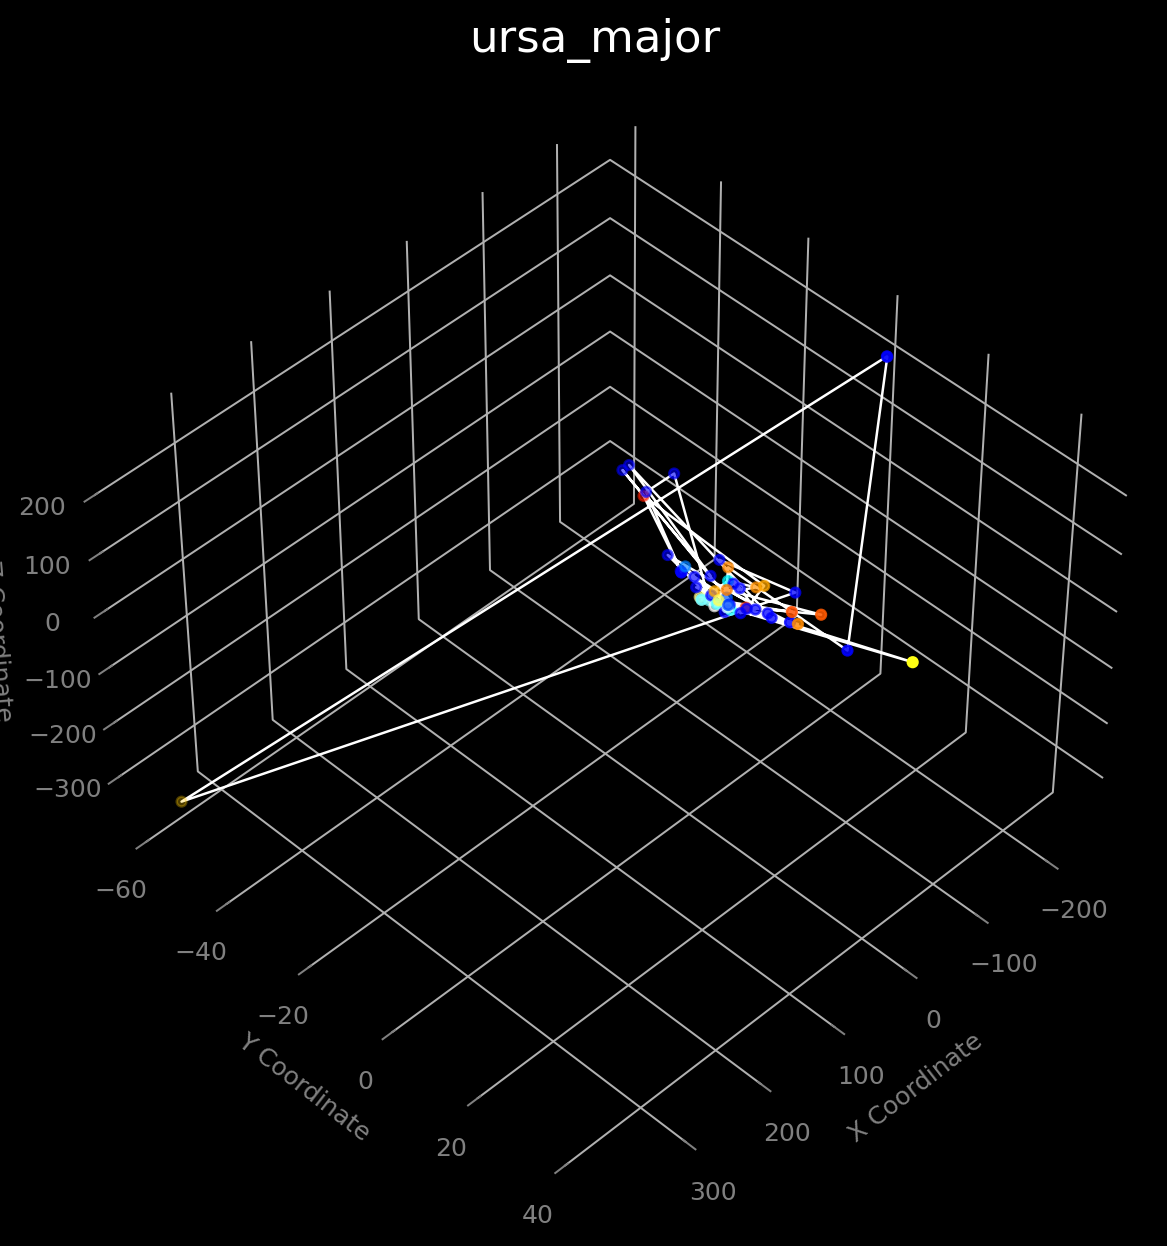
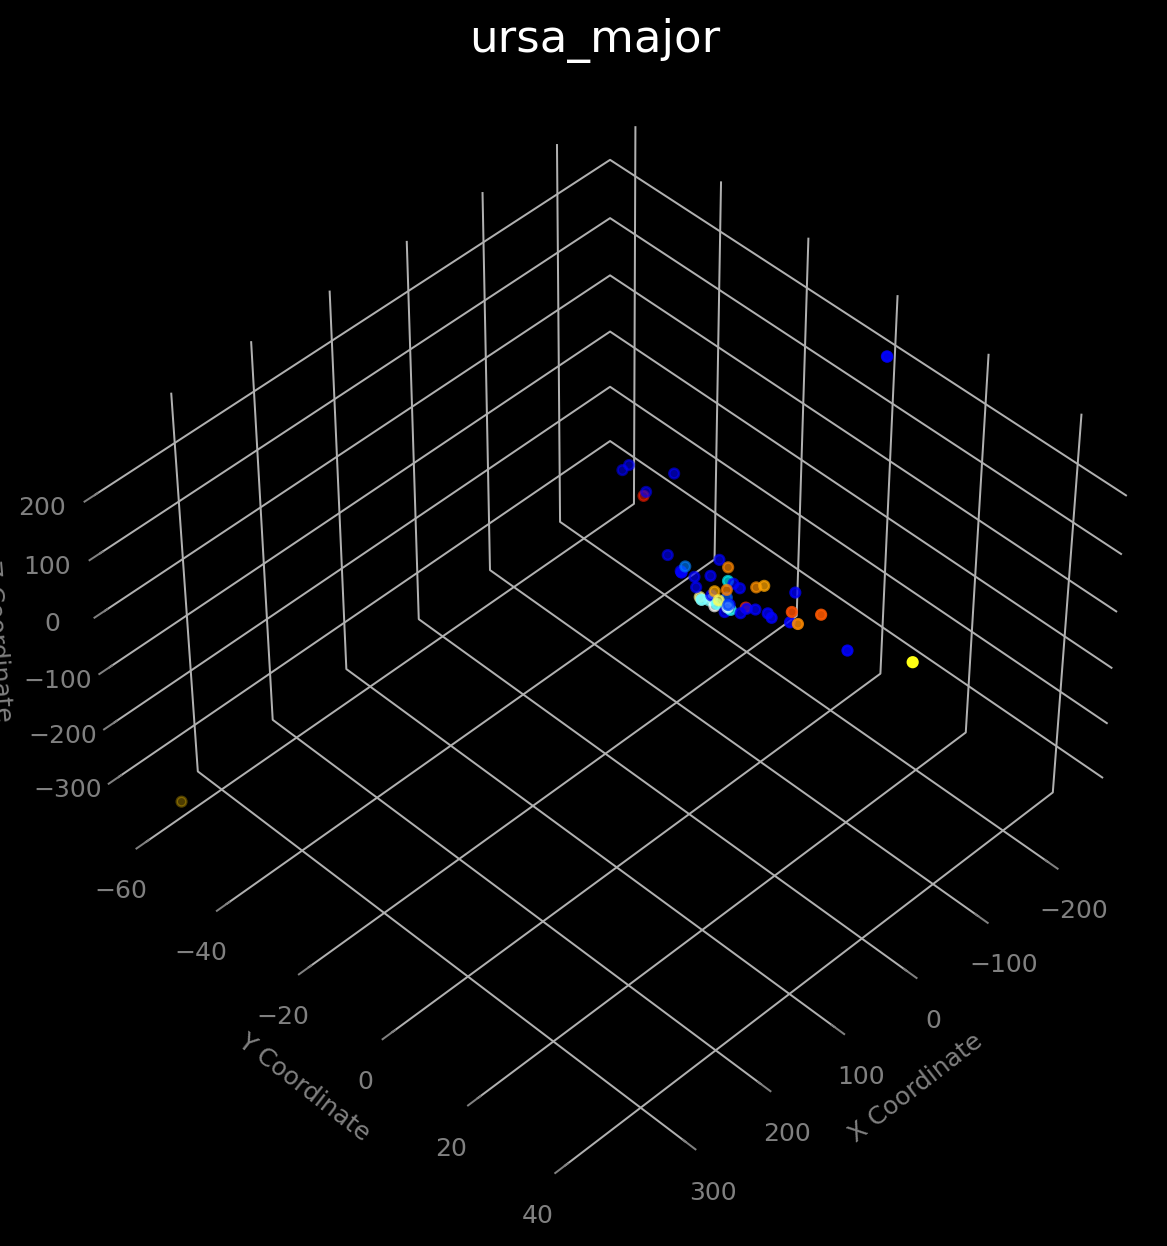
ursa major gif and plot line optional feature

diff --git a/src/plotter.py b/src/plotter.py
@@ -23,7 +23,7 @@ def draw_line_between_stars(ax, star_names, star_coords, star1, star2, color='wh
                 [star_coords['z'][index_star1], star_coords['z'][index_star2]],
                 color=color, linewidth=linewidth)
 
-def plot_3d_scatter(x, y, z, rgb, star_names=None, title=None, view=None):
+def plot_3d_scatter(x, y, z, rgb, star_names=None, title=None, view=None, lines=True):
     '''
     Creates a 3D plot using Cartesian coordinates with a black background,
     white points, grey axes, and black grid panes.
@@ -48,22 +48,23 @@ def plot_3d_scatter(x, y, z, rgb, star_names=None, title=None, view=None):
             ax.text(x[i], y[i], z[i], star_names[i], color='white', fontsize=9)
 
 
-    if star_names is not None:
+    # draw lines connecting the stars
+    if lines == True:
+        ax.plot(x, y, z, color='white', linewidth=1)
+        
+        if star_names is not None:
     
-        # connect stars in a 'closed loop'
-        star_coords = {'x': x, 'y': y, 'z': z}
+            # connect stars in a 'closed loop'
+            star_coords = {'x': x, 'y': y, 'z': z}
 
-        # for big dipper
-        draw_line_between_stars(ax, star_names, star_coords, 'Phecda', 'Megrez')
+            # for big dipper
+            draw_line_between_stars(ax, star_names, star_coords, 'Phecda', 'Megrez')
+    
+            # for little dipper
+            draw_line_between_stars(ax, star_names, star_coords, 'Eta UMi', 'Zet UMi')
 
-        # for little dipper
-        draw_line_between_stars(ax, star_names, star_coords, 'Eta UMi', 'Zet UMi')
-
-        # for summer triangle
-        draw_line_between_stars(ax, star_names, star_coords, 'Altair', 'Vega')
-
-    # draw lines connecting the stars in the Big Dipper
-    ax.plot(x, y, z, color='white', linewidth=1)
+            # for summer triangle
+            draw_line_between_stars(ax, star_names, star_coords, 'Altair', 'Vega')
 
     # set labels with grey color
     ax.set_xlabel('X Coordinate', color='grey')

diff --git a/src/constellations.py b/src/constellations.py
@@ -21,8 +21,6 @@ def ursa_major():
 
     # gets stars in the ursa major constellation
     df = df[df['alt_name'].str.contains('UMa')]
-    print(df)
-    print(len(df))
     
     # apply calculations such as getting coordinates and color 
     df = star_data_calculator(df)
@@ -30,6 +28,6 @@ def ursa_major():
     title = 'ursa_major'
 
     # plots ursa major constellation
-    fig, ax, view = plot_3d_scatter(df.x_coordinate.values, df.y_coordinate.values, df.z_coordinate.values, df.rgb_color.values, title=title)
+    fig, ax, view = plot_3d_scatter(df.x_coordinate.values, df.y_coordinate.values, df.z_coordinate.values, df.rgb_color.values, title=title, lines=False)
 
     return title, fig, ax, view

diff --git a/src/main.py b/src/main.py
@@ -3,16 +3,19 @@ from constellations import ursa_major
 from plotter import capture_gif
 
 # call functions to plot stars in the big dipper asterism
-print('big dipper')
 title, fig, ax, view = big_dipper()
-print('capturing animation...')
+print(f'{title}')
 #capture_gif(title, fig, ax, view)
 
 # call function to plot stars in the little dipper asterism
 title, fig, ax, view = little_dipper()
 #capture_gif(title, fig, ax, view)
+print(f'{title}')
 
 title, fig, ax, view = summer_triangle()
 #capture_gif(title, fig, ax, view)
+print(f'{title}')
 
 title, fig, ax, view = ursa_major()
+capture_gif(title, fig, ax, view)
+print(f'{title}')
